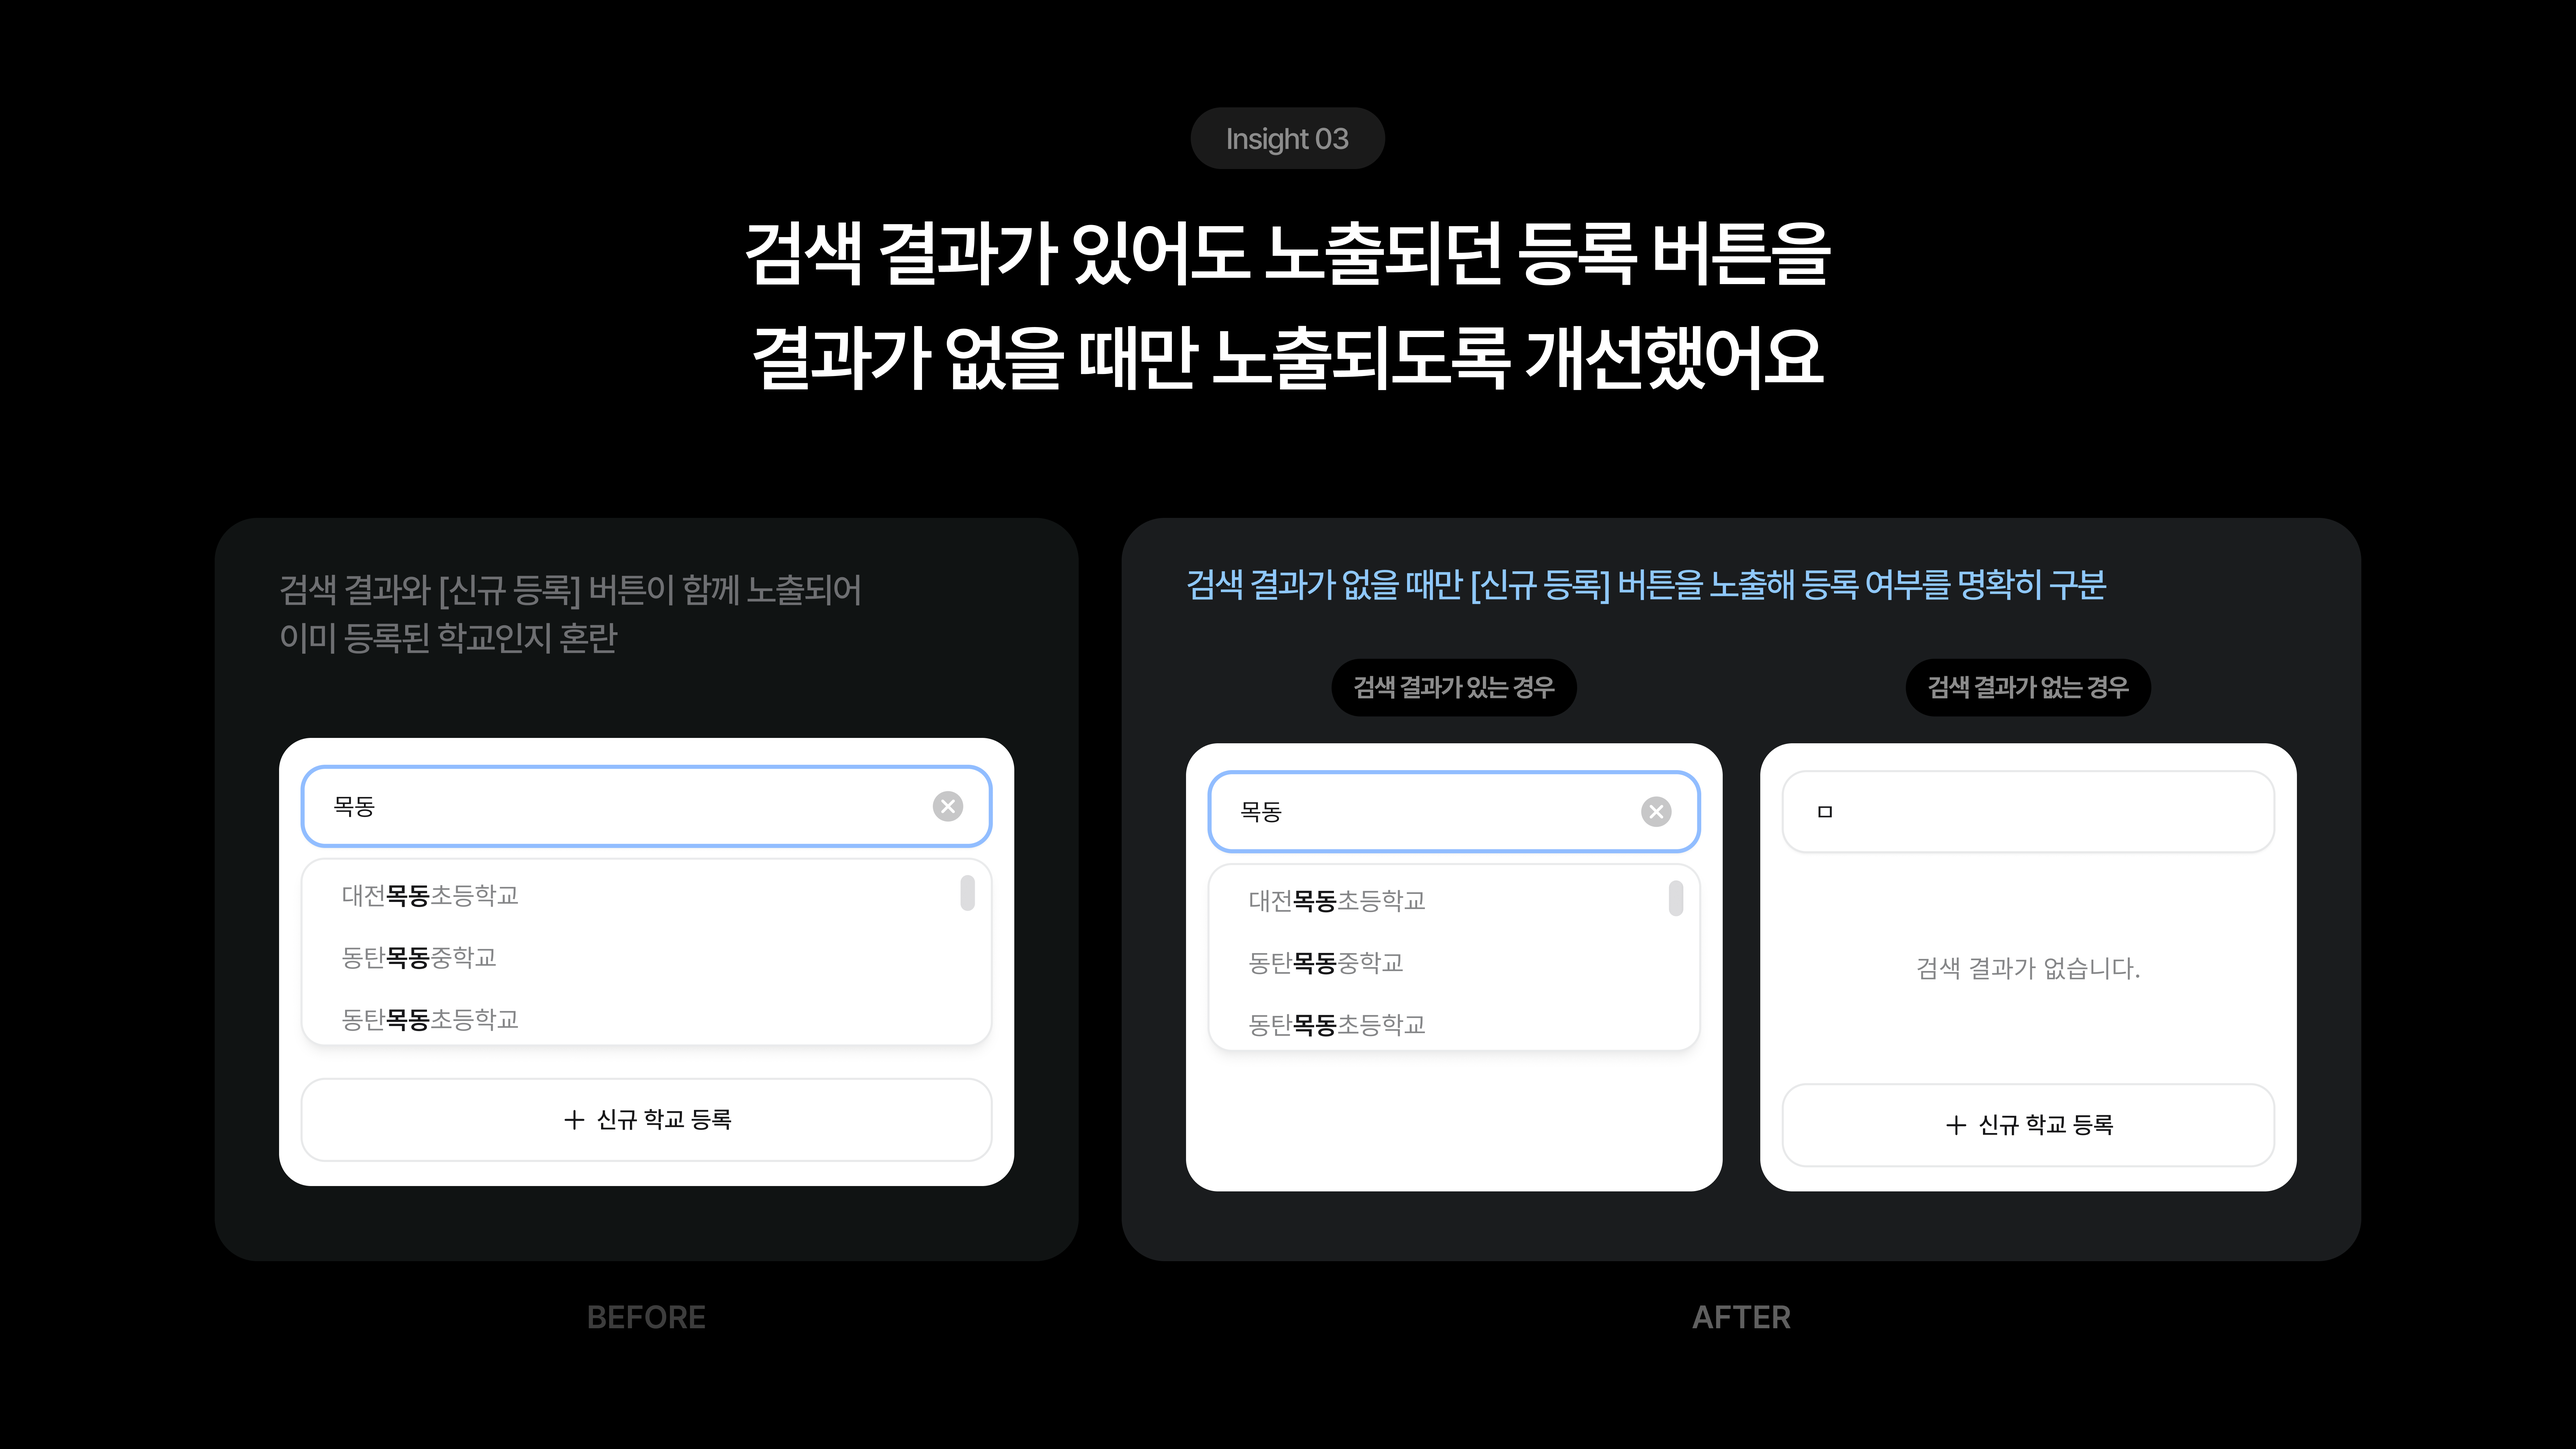
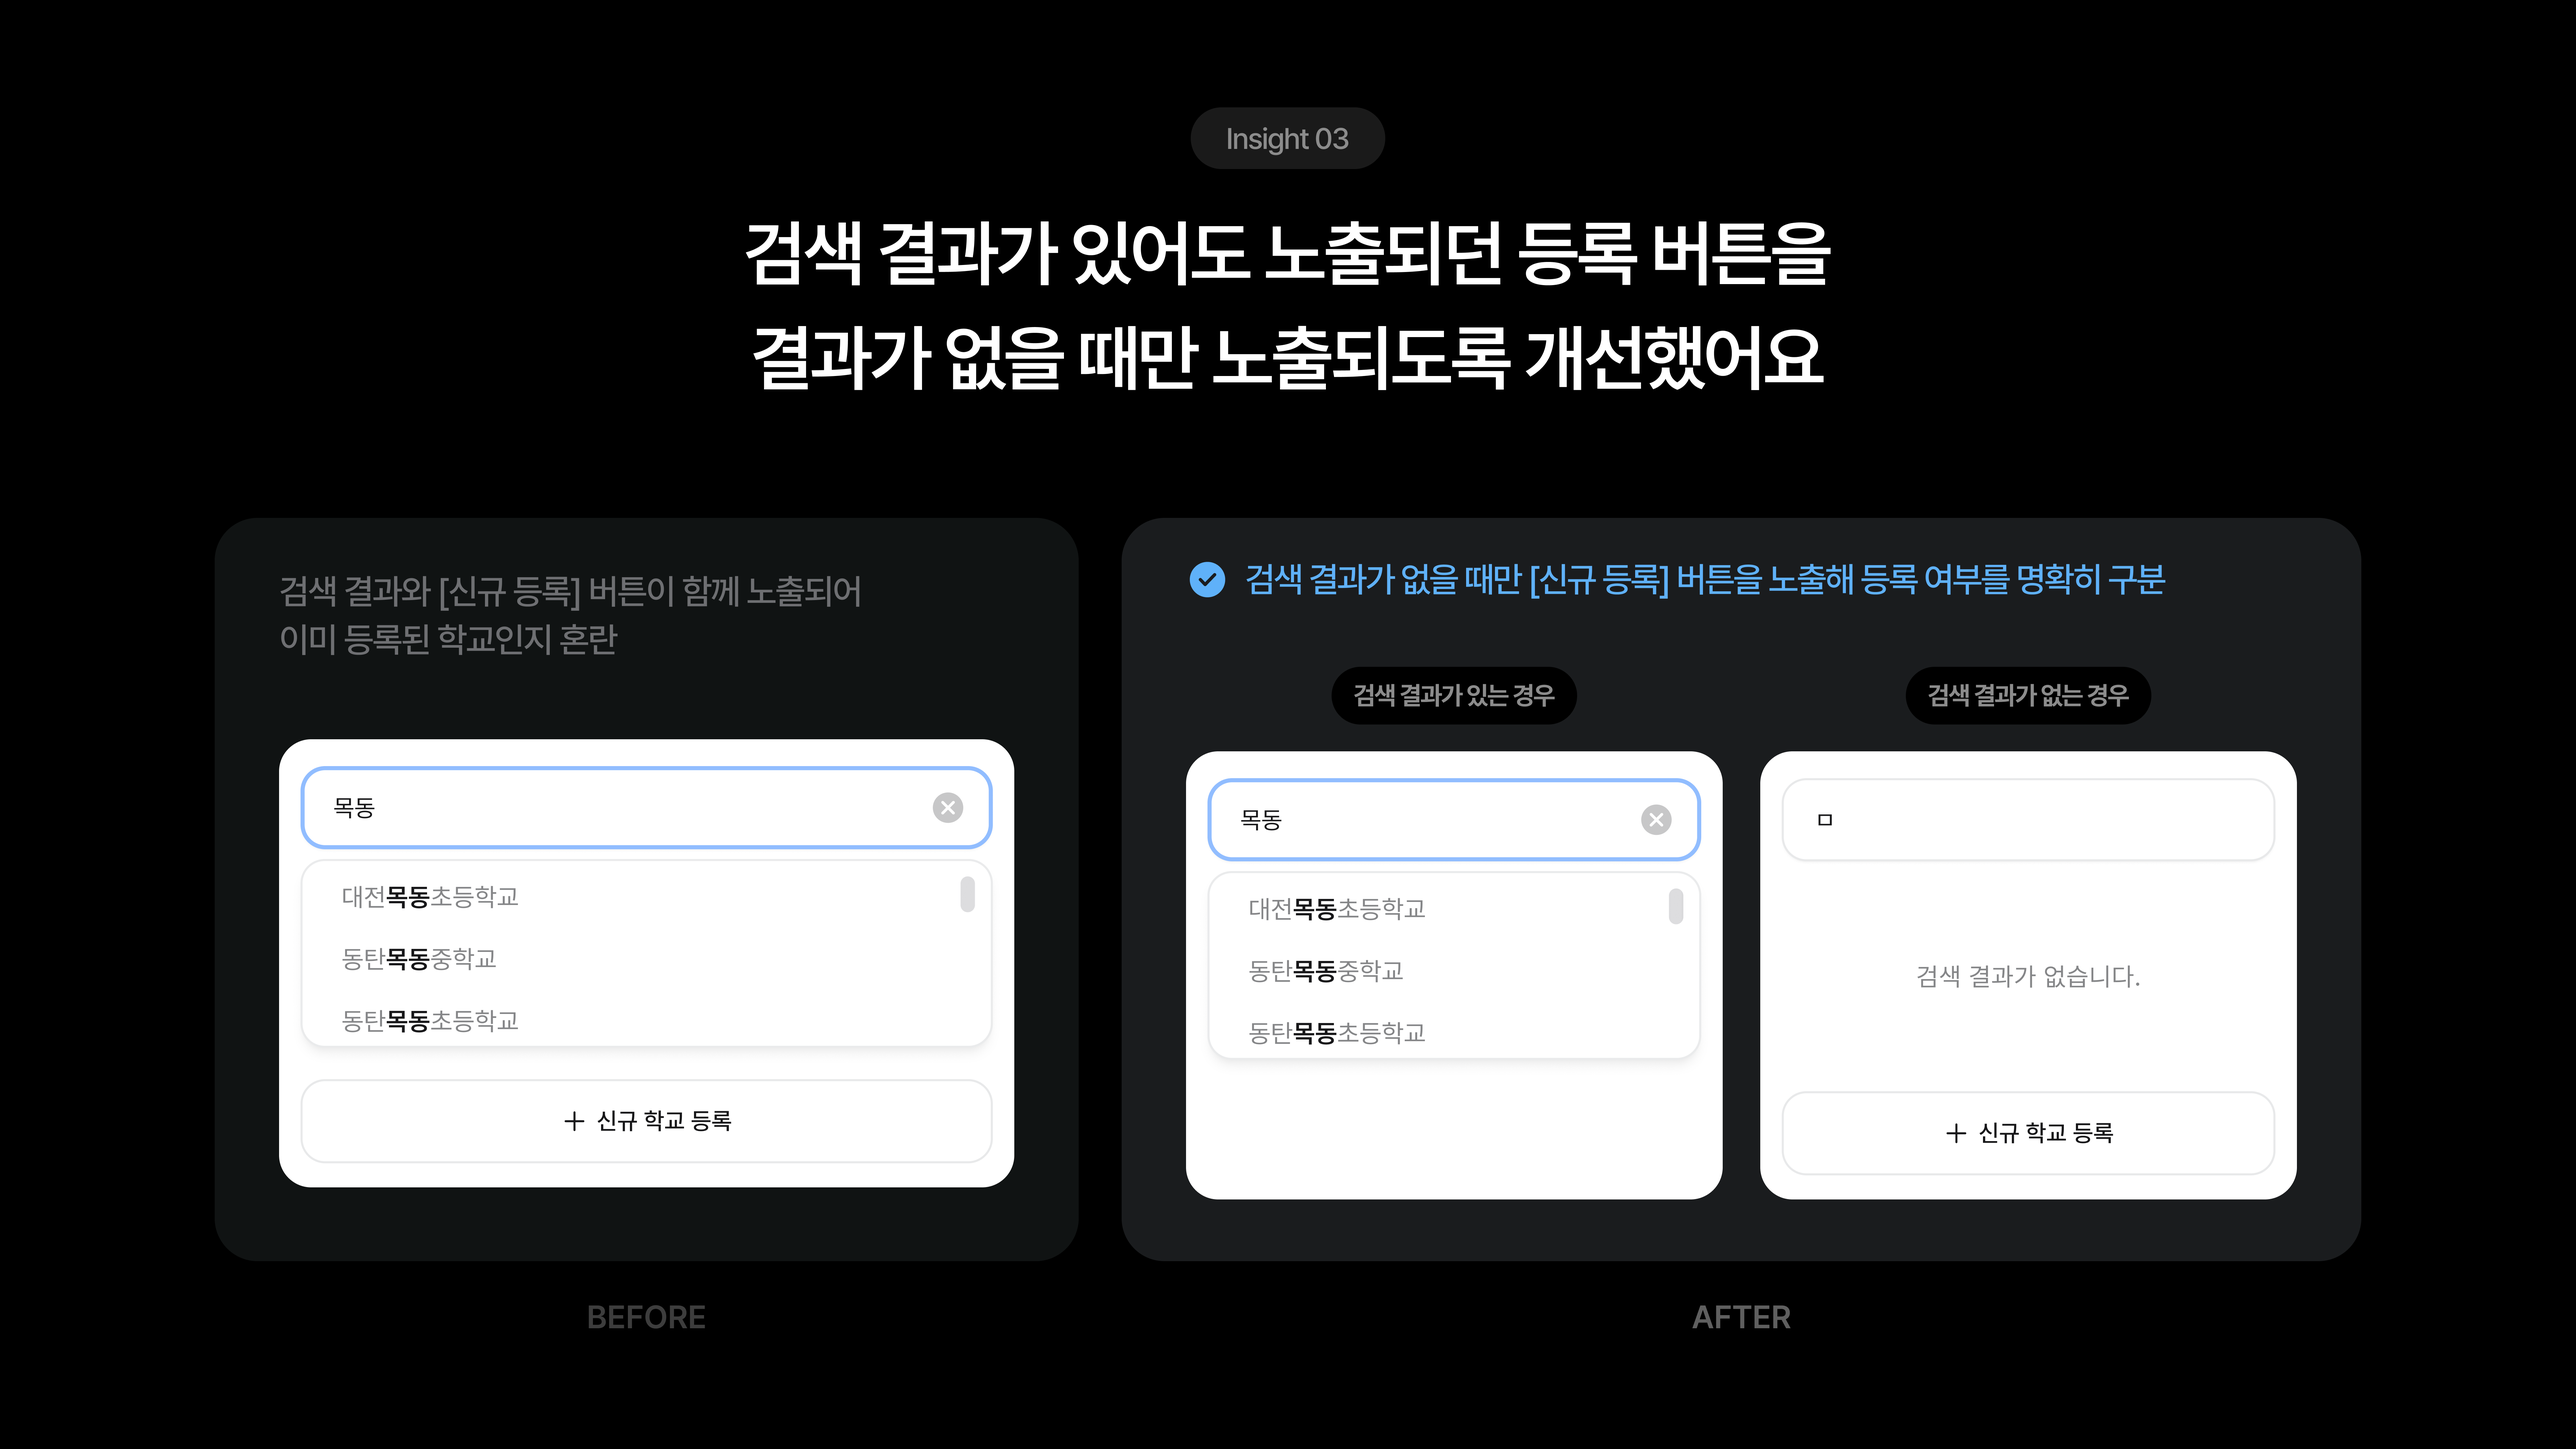
학원 ERP 08·09·10 슬라이드 재내보내기본 반영
- 08·09·10.png 갱신 (7680x4320, 총 24장 그대로)
  AFTER 설명 앞에 파란 체크 아이콘이 붙어 개선 쪽이 더 또렷해졌다.
- ASSET_VERSION 20261126b -> 20261126c

diff --git a/assets/js/main.js b/assets/js/main.js
@@ -70,7 +70,7 @@
      (CSS/JS 의 ?v= 와 같은 역할)
      경로 자체에는 붙이지 않는다 — 확장자 추출이나 존재 확인이 쿼리에
      오염되면 안 되므로, <img src> 에 실을 때만 versioned() 로 감싼다. */
-  var ASSET_VERSION = '20261126b';
+  var ASSET_VERSION = '20261126c';
   function slidePath(key, n, ext) { return 'assets/slides/' + key + '/' + pad(n) + '.' + ext; }
   function versioned(src) { return src + '?v=' + ASSET_VERSION; }
 

diff --git a/index.html b/index.html
@@ -169,6 +169,6 @@
   </div>
 </div>
 
-<script src="assets/js/main.js?v=20261126b"></script>
+<script src="assets/js/main.js?v=20261126c"></script>
 </body>
 </html>
